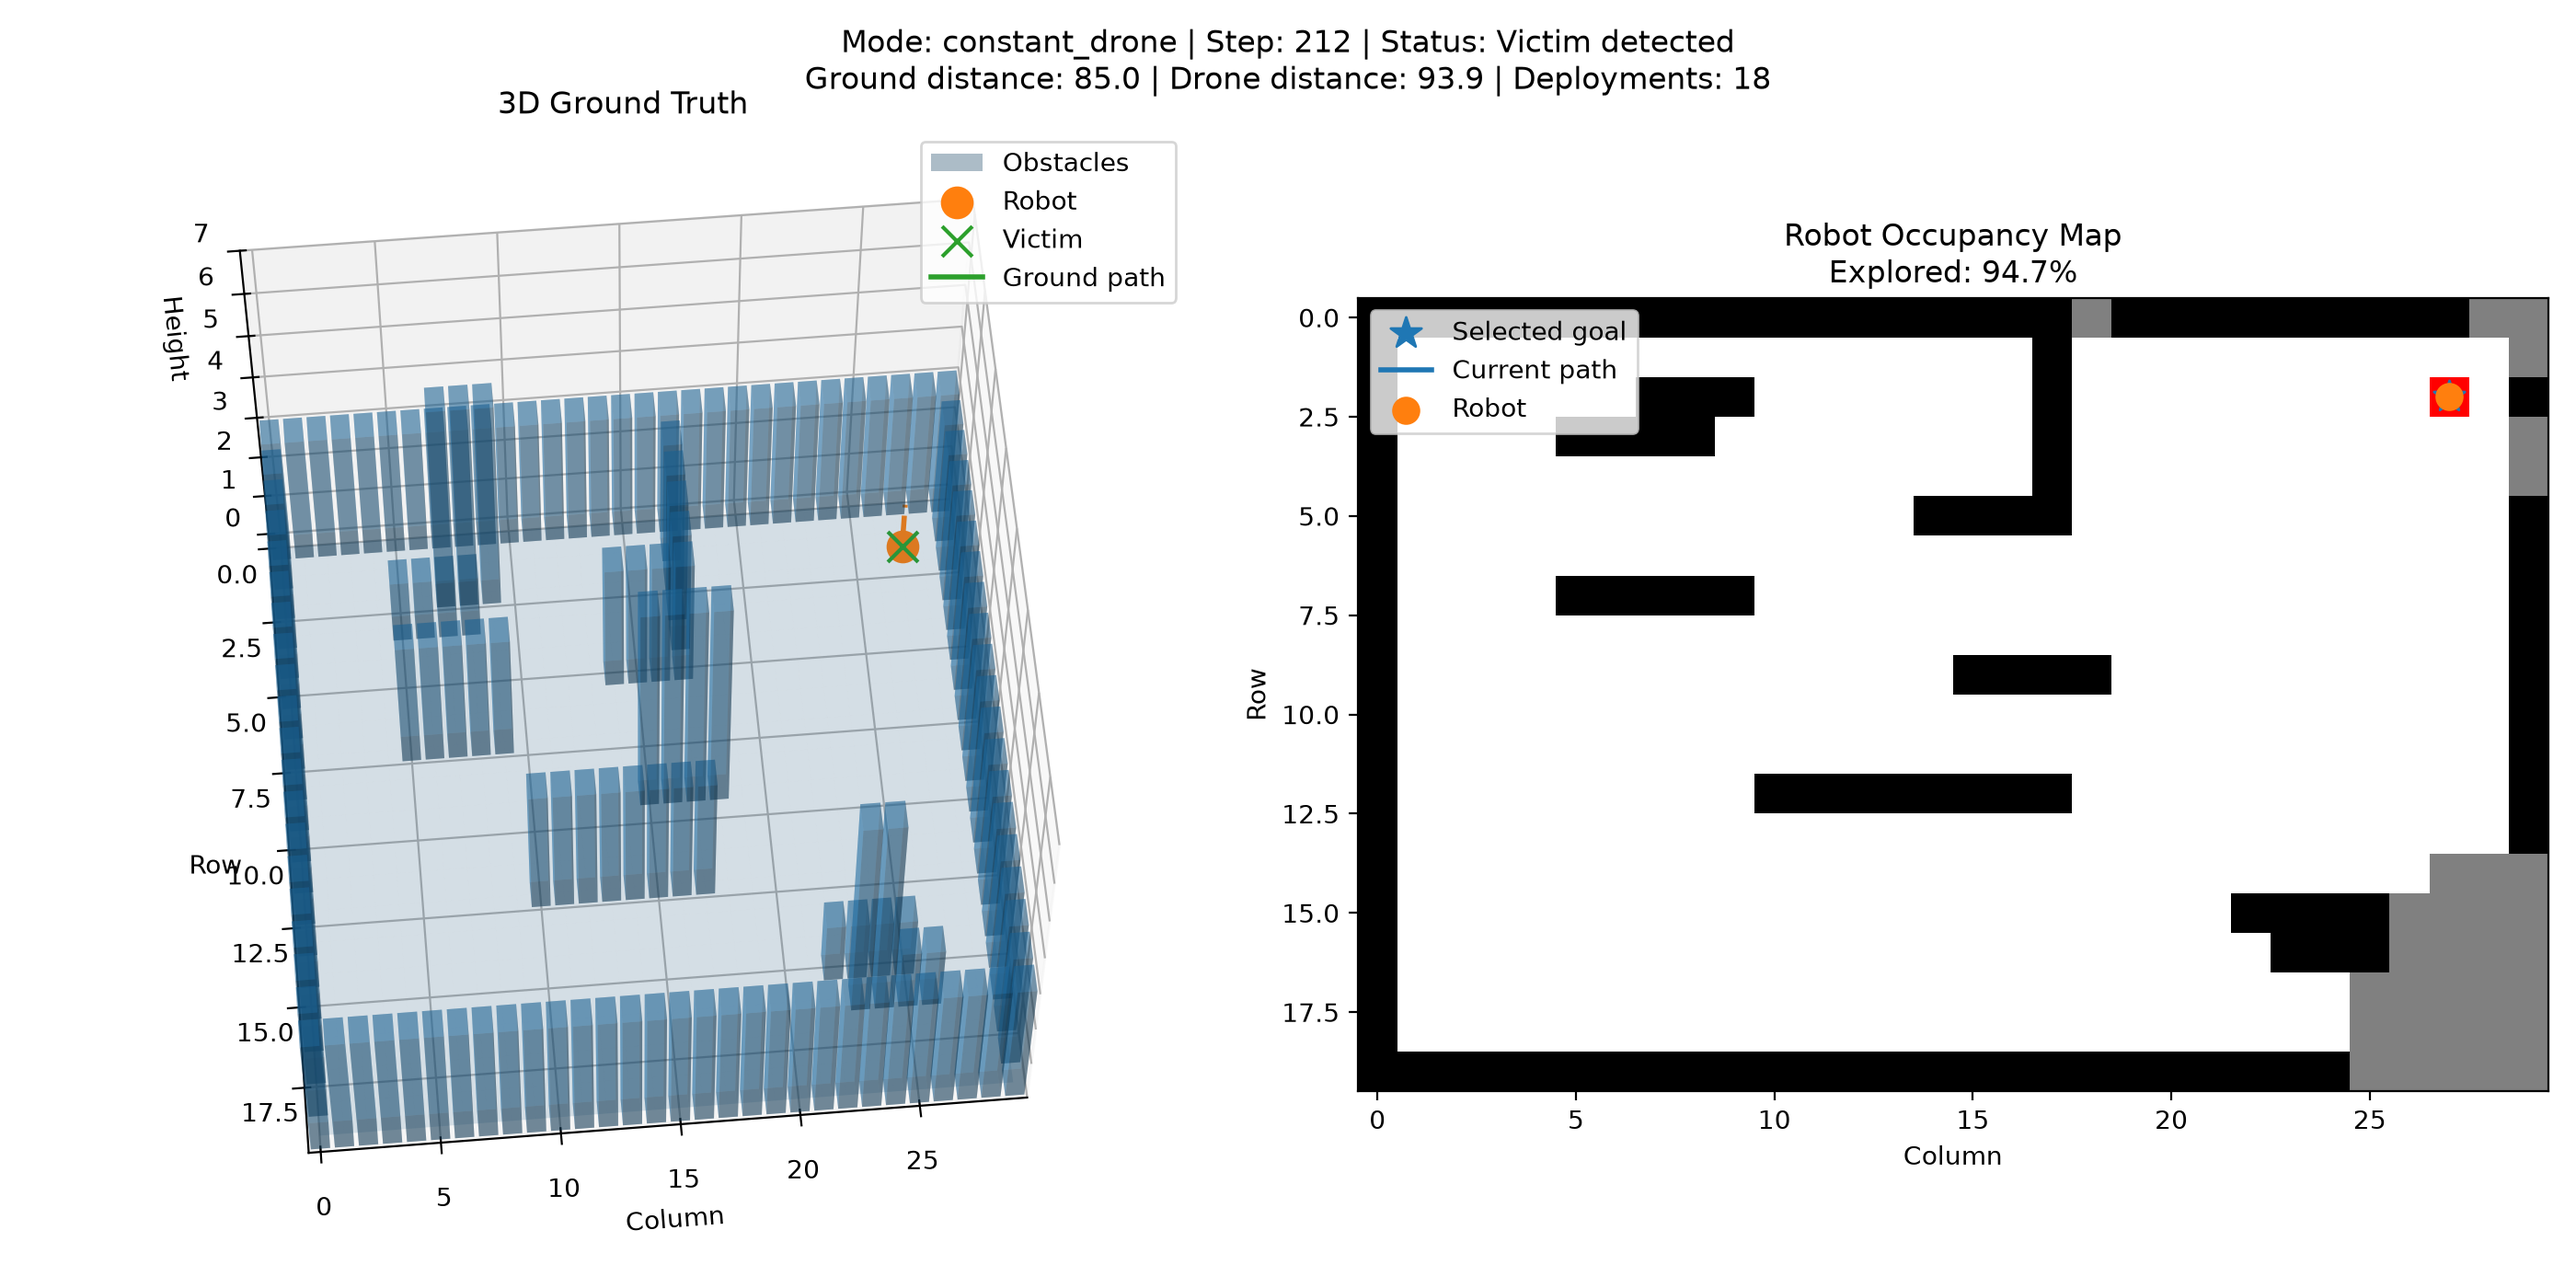
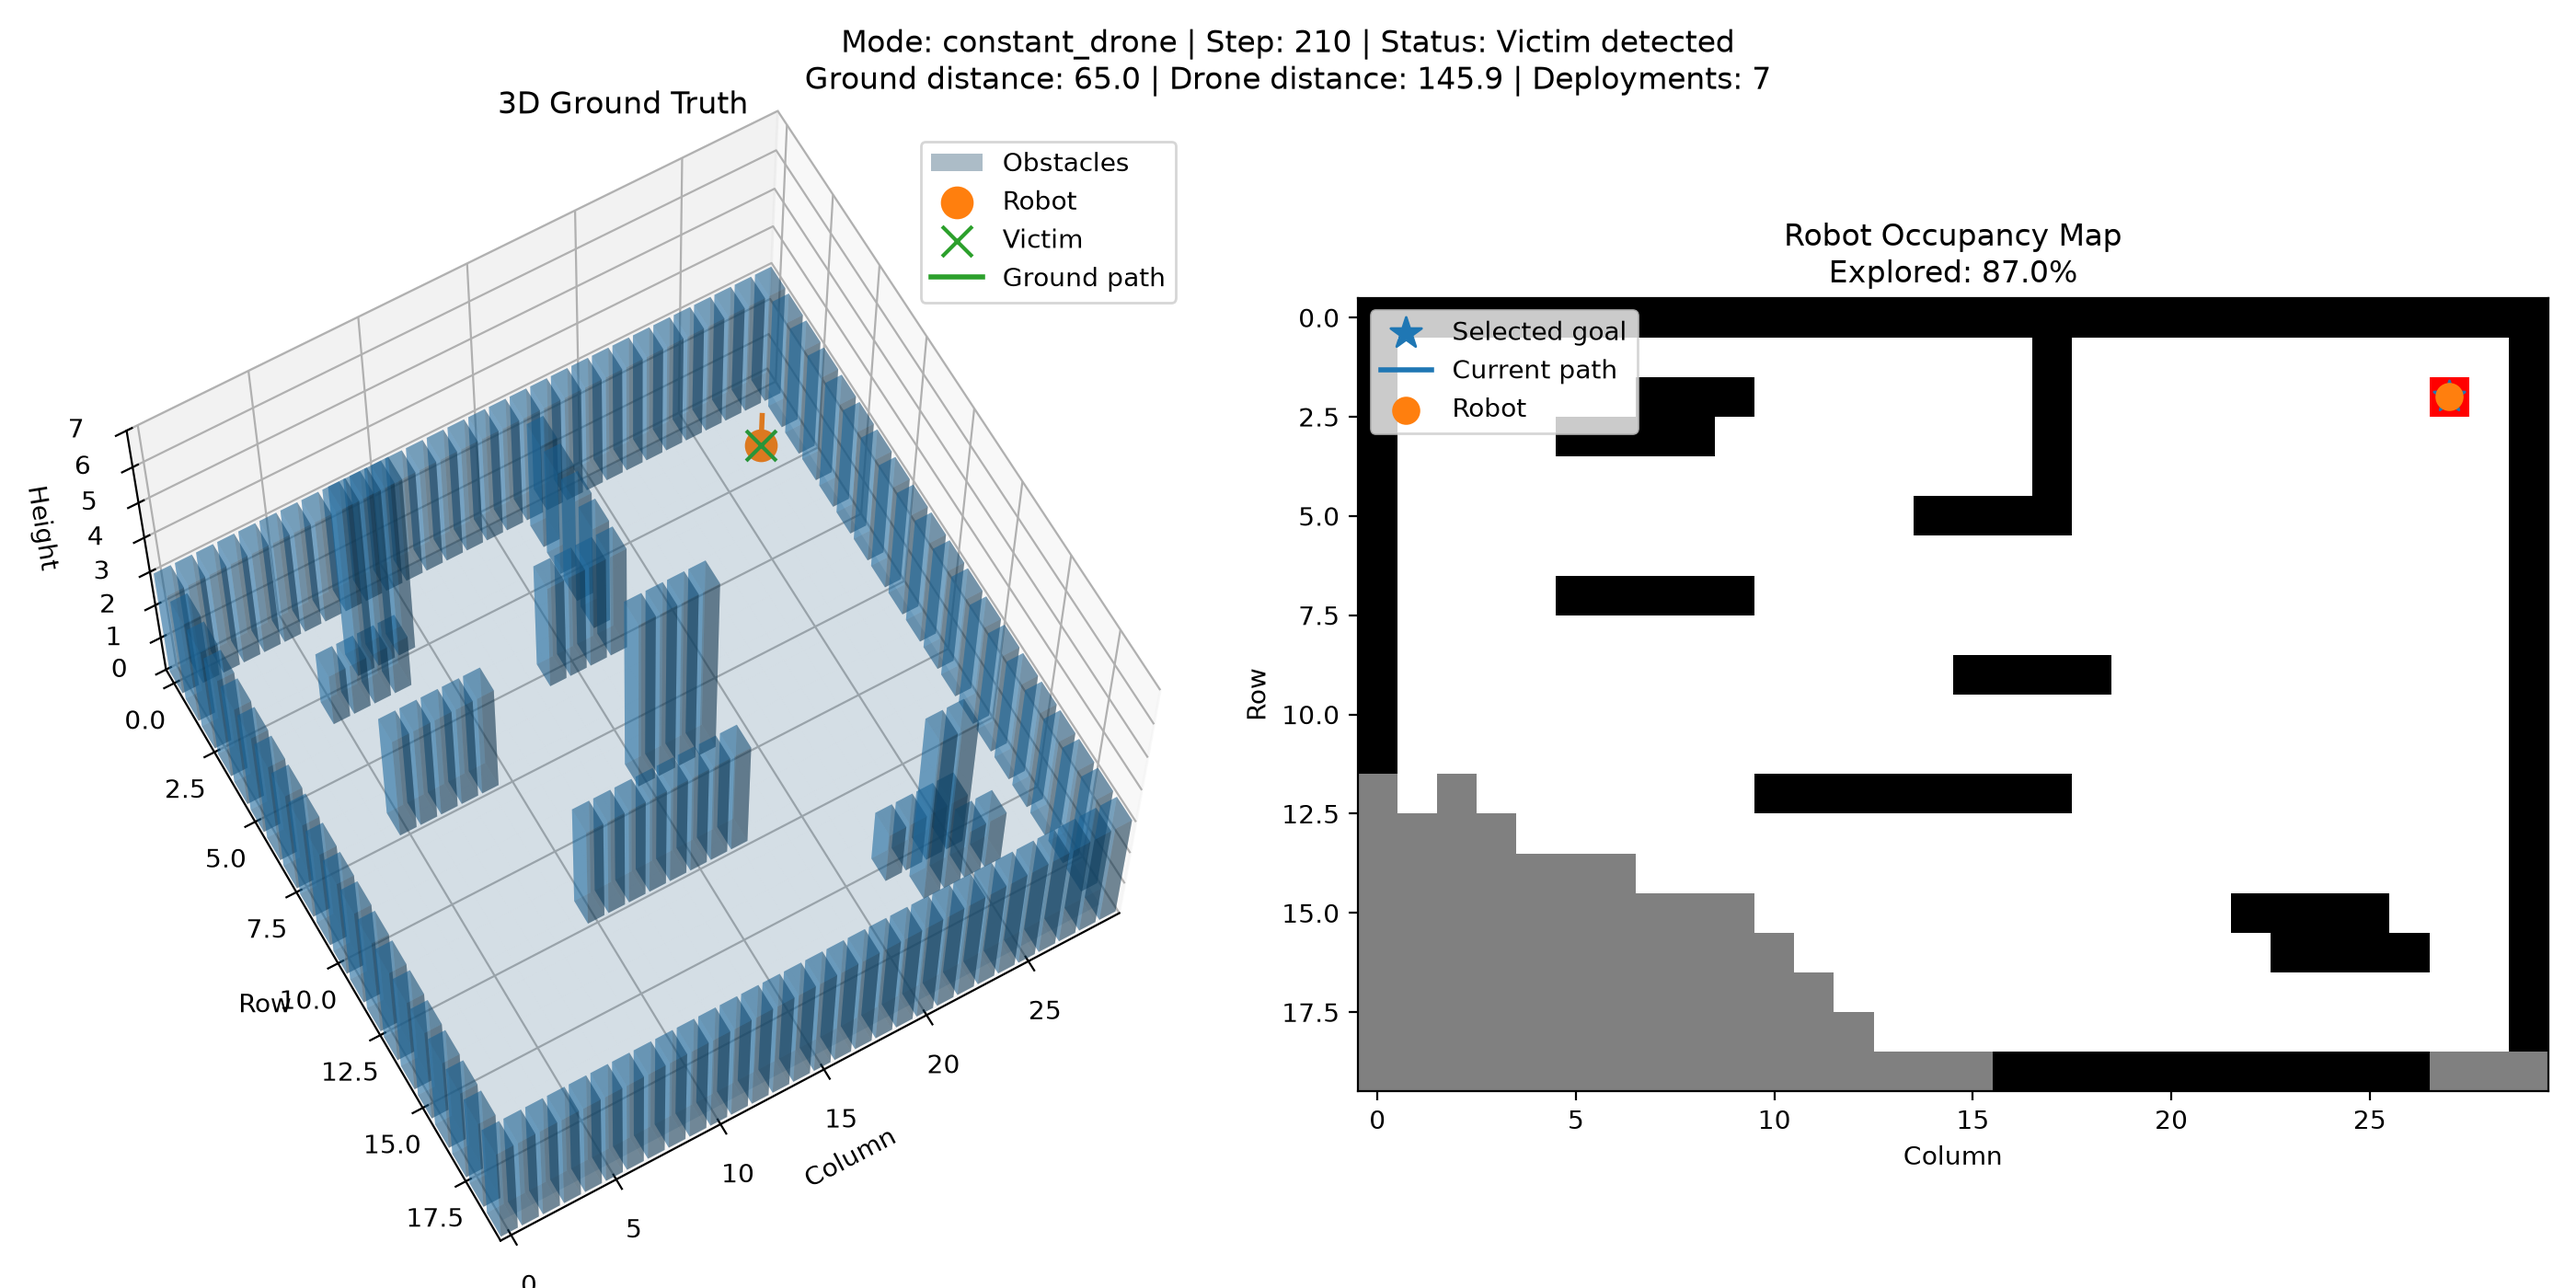
hmm tuning thresholds, going to change to not limited by number

diff --git a/main.py b/main.py
@@ -1,5 +1,6 @@
 from __future__ import annotations
 
+import math
 import os
 
 import matplotlib.pyplot as plt
@@ -19,7 +20,19 @@ from config import (
     GROUND_ONLY,
     CONSTANT_DRONE,
     LIMITED_DRONE,
-    DRONE_CRUISE_ALTITUDE
+    DRONE_CRUISE_ALTITUDE,
+    SMART_DEPLOYMENT_THRESHOLD,
+    FRONTIER_COUNT_WEIGHT,
+    FRONTIER_DISTANCE_WEIGHT,
+    UNKNOWN_PERCENT_WEIGHT,
+    NO_PROGRESS_WEIGHT,
+    DRONE_DEPLOYMENT_COST,
+    PROGRESS_WINDOW,
+    MIN_PROGRESS_PERCENT,
+    DRONE_INFORMATION_GAIN_WEIGHT,
+    DRONE_DISTANCE_WEIGHT,
+    DRONE_INFORMATION_RADIUS,
+    UNKNOWN
 )
 
 from environment import Environment
@@ -128,11 +141,7 @@ def visualize(environment, occupancy_map, robot, drone, path, frontiers, selecte
 
         if len(drone.forward_obstacles) > 0:
             obstacle_array = np.array(drone.forward_obstacles)
-
-            detection_heights = environment.height_map[
-                obstacle_array[:, 0],
-                obstacle_array[:, 1]
-            ]
+            detection_heights = environment.height_map[obstacle_array[:, 0], obstacle_array[:, 1]]
 
             true_world_plot.scatter(
                 obstacle_array[:, 1],
@@ -284,6 +293,55 @@ def deployment_is_allowed(drone):
     raise ValueError(f"Unknown experiment mode: {EXPERIMENT_MODE}")
 
 
+def robot_is_stuck(exploration_history):
+    if len(exploration_history) < PROGRESS_WINDOW:
+        return False
+
+    progress = exploration_history[-1] - exploration_history[0]
+
+    return progress < MIN_PROGRESS_PERCENT
+
+
+def calculate_deployment_score(occupancy_map, robot_position, frontiers, exploration_history):
+    if len(frontiers) == 0:
+        return -float("inf")
+
+    nearest_frontier_distance = min(
+        math.hypot(frontier[0] - robot_position[0], frontier[1] - robot_position[1])
+        for frontier in frontiers
+    )
+
+    unknown_percent = 100.0 - occupancy_map.percent_explored()
+
+    score = FRONTIER_COUNT_WEIGHT * len(frontiers)
+    score += FRONTIER_DISTANCE_WEIGHT * nearest_frontier_distance
+    score += UNKNOWN_PERCENT_WEIGHT * unknown_percent
+    score -= DRONE_DEPLOYMENT_COST
+
+    if robot_is_stuck(exploration_history):
+        score += NO_PROGRESS_WEIGHT
+
+    return score
+
+
+def count_unknown_neighbors(occupancy_map, frontier):
+    frontier_row, frontier_col = frontier
+    unknown_count = 0
+
+    for row in range(frontier_row - DRONE_INFORMATION_RADIUS, frontier_row + DRONE_INFORMATION_RADIUS + 1):
+        for col in range(frontier_col - DRONE_INFORMATION_RADIUS, frontier_col + DRONE_INFORMATION_RADIUS + 1):
+            if row < 0 or row >= occupancy_map.grid.shape[0]:
+                continue
+
+            if col < 0 or col >= occupancy_map.grid.shape[1]:
+                continue
+
+            if occupancy_map.grid[row, col] == UNKNOWN:
+                unknown_count += 1
+
+    return unknown_count
+
+
 def choose_drone_frontier(occupancy_map, robot_position, frontiers, drone):
     available_frontiers = [
         frontier
@@ -294,13 +352,25 @@ def choose_drone_frontier(occupancy_map, robot_position, frontiers, drone):
     if len(available_frontiers) == 0:
         return None
 
-    selected_goal, _ = choose_frontier(
-        occupancy_map,
-        robot_position,
-        available_frontiers
-    )
+    best_frontier = None
+    best_score = -float("inf")
 
-    return selected_goal
+    for frontier in available_frontiers:
+        information_gain = count_unknown_neighbors(occupancy_map, frontier)
+
+        distance = math.hypot(
+            frontier[0] - robot_position[0],
+            frontier[1] - robot_position[1]
+        )
+
+        score = DRONE_INFORMATION_GAIN_WEIGHT * information_gain
+        score += DRONE_DISTANCE_WEIGHT * distance
+
+        if score > best_score:
+            best_score = score
+            best_frontier = frontier
+
+    return best_frontier
 
 
 def print_results(occupancy_map, robot, drone, step_number, victim_reached):
@@ -342,9 +412,11 @@ def main():
     path = None
     frontiers = []
     selected_goal = None
+    exploration_history = []
 
     while step_number < MAX_SIMULATION_STEPS:
 
+        # The drone gets the full simulation step while it is active.
         if drone.active:
             drone.move_one_step(environment)
 
@@ -379,14 +451,21 @@ def main():
         if drone_cooldown > 0:
             drone_cooldown -= 1
 
+        # Ground robot sensing
         occupancy_map.update_from_sensor(
             environment,
             robot.position,
             ROBOT_SENSOR_RANGE
         )
 
+        exploration_history.append(occupancy_map.percent_explored())
+
+        if len(exploration_history) > PROGRESS_WINDOW:
+            exploration_history.pop(0)
+
         known_victim_position = occupancy_map.find_known_victim()
 
+        # Plan directly to the victim once it is known.
         if known_victim_position is not None:
             victim_found = True
 
@@ -399,6 +478,7 @@ def main():
             frontiers = []
             selected_goal = known_victim_position
 
+        # Otherwise, continue frontier exploration.
         else:
             victim_found = False
             frontiers = find_frontiers(occupancy_map)
@@ -409,9 +489,27 @@ def main():
                 frontiers
             )
 
+        deployment_score = calculate_deployment_score(
+            occupancy_map,
+            robot.position,
+            frontiers,
+            exploration_history
+        )
+
+        if EXPERIMENT_MODE == CONSTANT_DRONE:
+            smart_trigger = True
+        elif EXPERIMENT_MODE == LIMITED_DRONE:
+            smart_trigger = deployment_score >= SMART_DEPLOYMENT_THRESHOLD
+        else:
+            smart_trigger = False
+
+        if EXPERIMENT_MODE == LIMITED_DRONE and known_victim_position is None:
+            print(f"Deployment score: {deployment_score:.2f}")
+
         should_deploy = (
             step_number >= DRONE_DEPLOY_STEP
             and deployment_is_allowed(drone)
+            and smart_trigger
             and drone_cooldown == 0
             and known_victim_position is None
             and len(frontiers) > 0
@@ -429,6 +527,7 @@ def main():
                 deployed = drone.deploy(robot.position, drone_target)
 
                 if deployed:
+                    print(f"Smart deployment triggered with score {deployment_score:.2f}")
                     continue
 
         visualize(

diff --git a/config.py b/config.py
@@ -14,7 +14,7 @@ GROUND_MOVE_ENERGY = 1.0
 GROUND_ONLY = "ground_only"
 CONSTANT_DRONE = "constant_drone"
 LIMITED_DRONE = "limited_drone"
-EXPERIMENT_MODE = GROUND_ONLY
+EXPERIMENT_MODE = LIMITED_DRONE
 
 # drone deployment
 DRONE_DEPLOY_STEP = 10
@@ -41,4 +41,17 @@ DRONE_SCAN_ENERGY = 1.5
 
 # simulation
 MAX_SIMULATION_STEPS = 1000
-VISUALIZATION_DELAY = 0.1
+VISUALIZATION_DELAY = 0.05
+
+# smart deployment
+SMART_DEPLOYMENT_THRESHOLD = 15.0
+FRONTIER_COUNT_WEIGHT = 0.4
+FRONTIER_DISTANCE_WEIGHT = 1.0
+UNKNOWN_PERCENT_WEIGHT = 0.08
+NO_PROGRESS_WEIGHT = 4.0
+DRONE_DEPLOYMENT_COST = 5.0
+PROGRESS_WINDOW = 8
+MIN_PROGRESS_PERCENT = 2.0
+DRONE_INFORMATION_GAIN_WEIGHT = 2.0
+DRONE_DISTANCE_WEIGHT = 0.5
+DRONE_INFORMATION_RADIUS = 3
